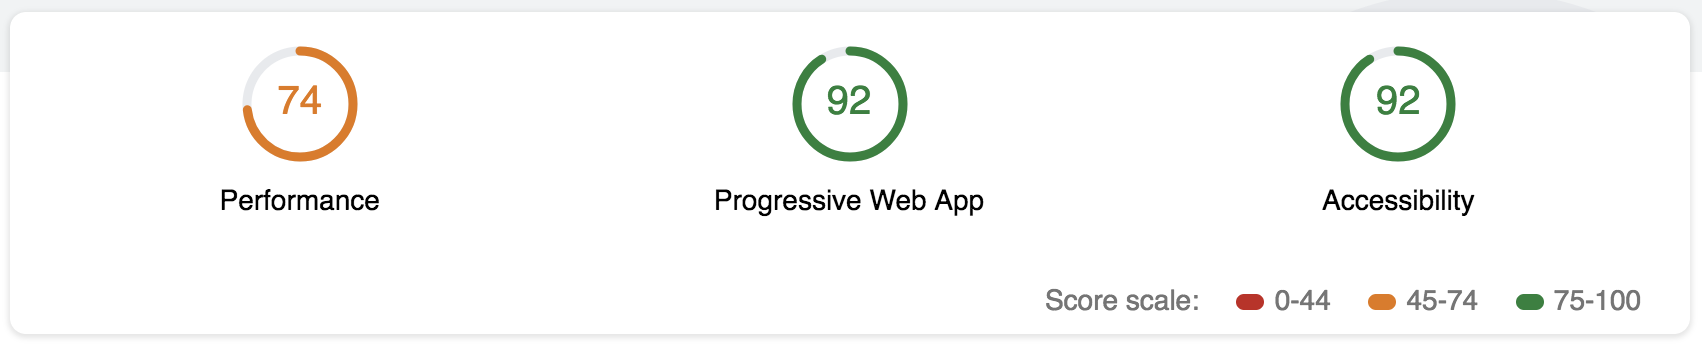
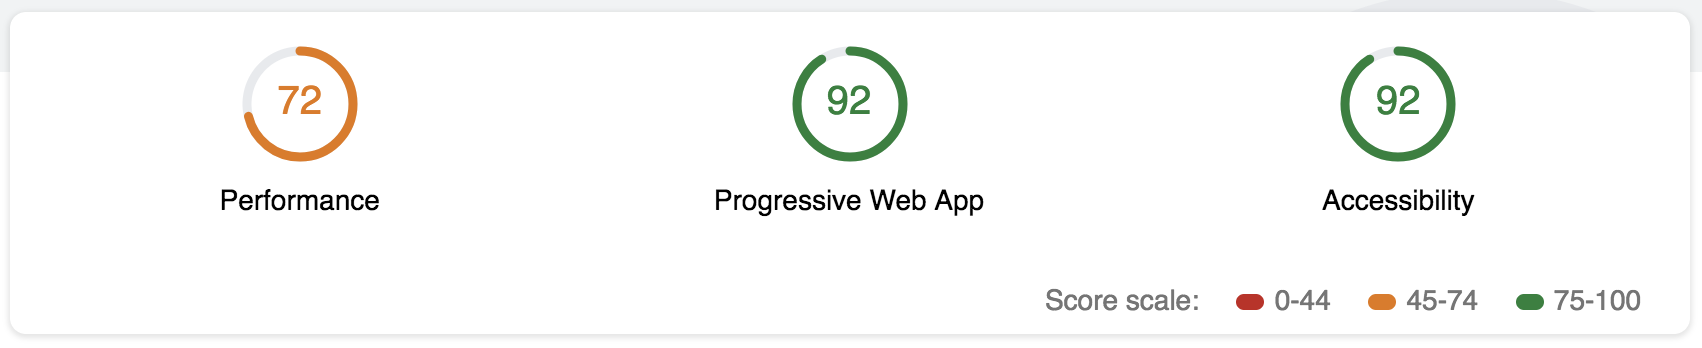
prod: add a form for submitting a review
update accessibility

diff --git a/restaurant.html b/restaurant.html
@@ -11,7 +11,7 @@
 
   <link rel="manifest" href="/manifest.json">
   <link rel="icon" href="img/icon.ico">
-  <link rel="stylesheet" src="//normalize-css.googlecode.com/svn/trunk/normalize.css">
+  <link rel="preload" as="style" src="//normalize-css.googlecode.com/svn/trunk/normalize.css">
   <link rel="stylesheet" href="css/styles.css">
   <link rel="stylesheet" href="css/responsive.css">
 </head>
@@ -47,7 +47,43 @@
       </section>
       
       <section class="reviews">
-        <ul class="reviews-list"></ul>
+        <ul class="reviews-list">
+          <li>
+            <form
+              id="add-review-form"
+              role="form"
+              aria-labelledby="add-review"
+              action="http://localhost:1337/reviews/"
+              method="POST"
+            >
+              <fieldset>
+                <legend id="add-review">Add a review</legend>
+
+                <label id="username">Username: </label>
+                <input type="text" aria-labelledby="username" name="name">
+
+                <label id="restaurant_id">Restaurant ID: </label>
+                <input type="text" aria-labelledby="restaurant_id" name="restaurant_id">
+
+                <label for="rating">Rating: </label>
+                <select id="rating" name="rating" form="add-review-form">
+                  <option value="1">1</option>
+                  <option value="2">2</option>
+                  <option value="3">3</option>
+                  <option value="4">4</option>
+                  <option value="5" selected>5</option>
+                </select>
+
+                <label id="comments">Comments: </label>
+                <textarea aria-labelledby="comments" name="comments"></textarea>
+
+                <br>
+              
+                <button type="submit">Submit</button>
+              </fieldset>
+            </form>
+          </li>
+        </ul>
       </section>
     </section>
 
@@ -59,7 +95,7 @@
   <script src="sw.js"></script>
   <script async defer src="js/dbhelper.js"></script>
   <script async defer src="js/restaurant_info.js"></script>
-  <script async defer src="https://maps.googleapis.com/maps/api/js?key=&libraries=places&callback=initMap"></script>
+  <script async defer src="https://maps.googleapis.com/maps/api/js?key=AIzaSyB3gktUOfVzbPgrefRc8Hbnz3XTFzfm7qU&libraries=places&callback=initMap"></script>
 </body>
 
 </html>

diff --git a/index.html b/index.html
@@ -62,7 +62,7 @@
   <script src="sw.js"></script>
   <script async defer src="js/dbhelper.js"></script>
   <script async defer src="js/main.js"></script>
-  <script async defer src="https://maps.googleapis.com/maps/api/js?key=&libraries=places&callback=initMap"></script>
+  <script async defer src="https://maps.googleapis.com/maps/api/js?key=AIzaSyB3gktUOfVzbPgrefRc8Hbnz3XTFzfm7qU&libraries=places&callback=initMap"></script>
 </body>
 
 </html>

diff --git a/css/styles.css b/css/styles.css
@@ -276,6 +276,11 @@ nav.breadcrumb li a:hover {
   position: relative;
   max-width: 96%;
 }
+.reviews-list li form input,
+.reviews-list li form select,
+.reviews-list li form textarea {
+  display: block;
+}
 .reviews-list li p {
   margin: 0 0 10px;
 }

diff --git a/README.md b/README.md
@@ -66,10 +66,10 @@ With your server running, visit the site: [http://localhost:8000](http://localho
 
 #### Stage 3 (using Lighthouse report)
 
-- [ ] A form to allow users to create their own reviews
+- [x] A form to allow users to create their own reviews
 - [ ] A functionality to defer updates until the user is connected
 - [ ] Performance
-  - [ ] `> 90` (decreased from previous stage: `74`)
+  - [ ] `> 90` (decreased to `72` and `74` for home and restaurant pages)
 - [x] Progressive Web Application
   - [x] `> 90` (from previous stage: `92`)
 - [x] Accessibility
